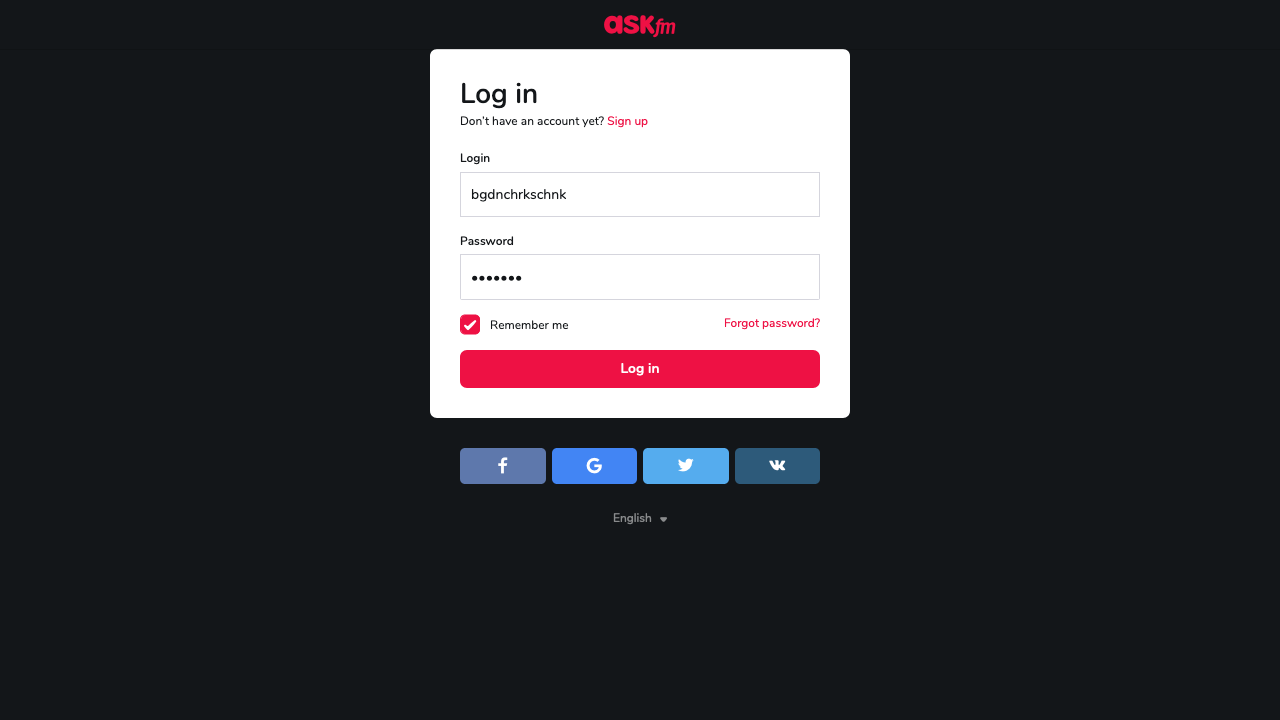
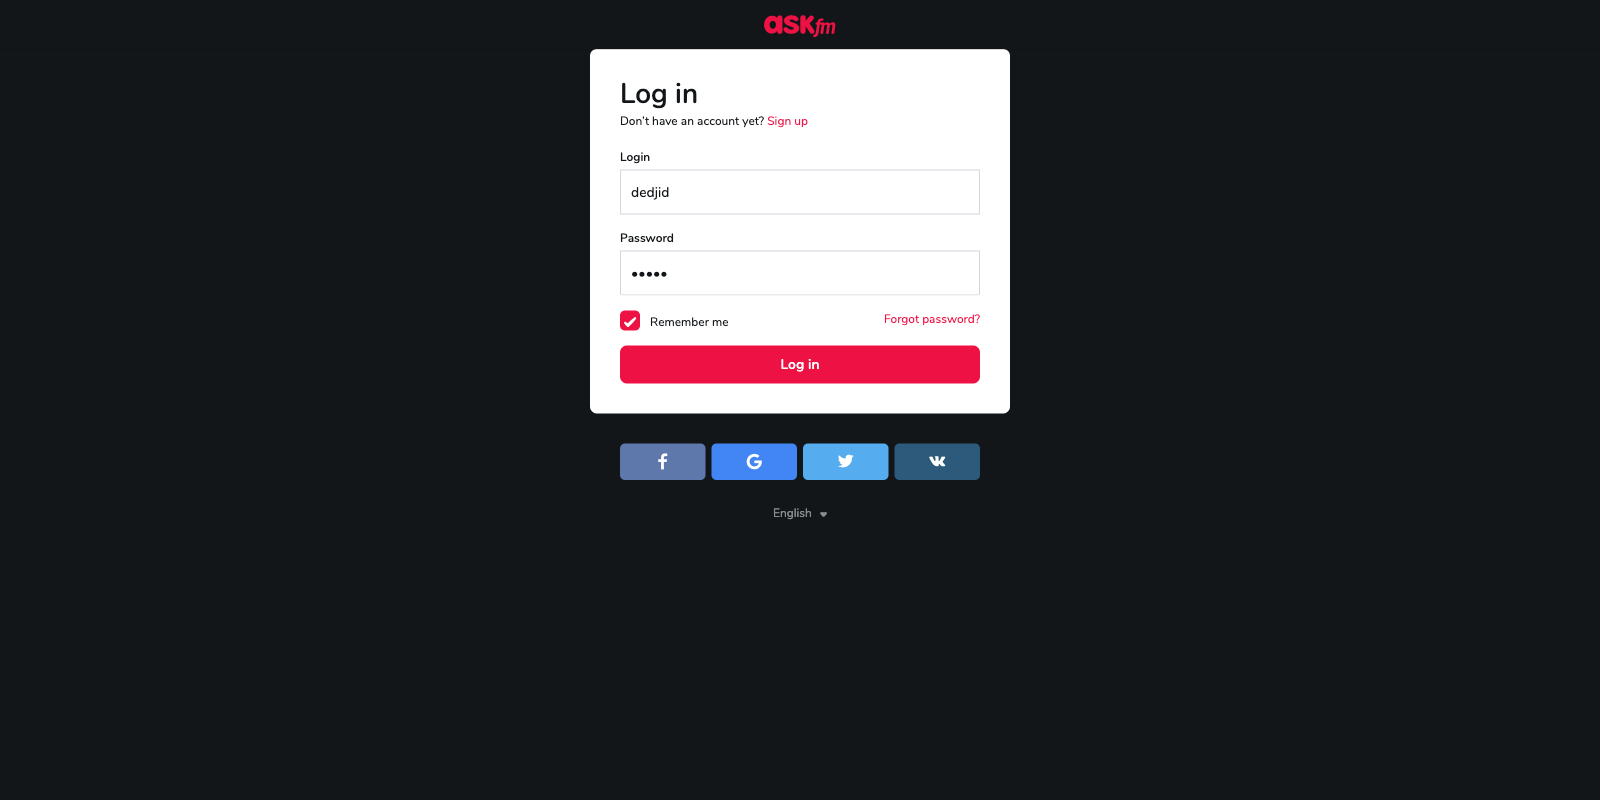
initial commit

Changed region(s): [[0.3125, 0.0, 0.6875, 0.6722], [0.4688, 0.7028, 0.5, 0.7333]]

diff --git a/test/test.py b/test/test.py
@@ -4,11 +4,8 @@ from playwright.sync_api import expect
 import pytest
 
 class Tests:
-    @pytest.mark.this
-    def test_login(self, browser_context):
-        page = browser_context.new_page()
-        # page.set_viewport_size({"width": 2560, "height": 1800})
-        page.goto(url="https://ask.fm/login")
+    # @pytest.mark.this
+    def test_login(self, page):
         assert "https://ask.fm/login" in page.url
         page.locator("#user_name").type("bgdnchrkschnk")
         page.locator("#user_password").type("2445253")
@@ -23,24 +20,15 @@ class Tests:
             assert expect(page.locator(selector="pb-3.p-4")).to_be_visible(), "Ask block is not recognized on page!"
             assert "Стена" in page.title(), f"Page title is wrong - '{page.title()}'"
 
-    @pytest.mark.parametrize("login, pw", [("dimasik", "ehfwhie"), ("alinchik", "5327632")])
-    def test_invalid_login(self, browser_context, login, pw):
-        page = browser_context.new_page()
-        # page.set_viewport_size({"width": 2560, "height": 1800})
-        page.goto(url="https://ask.fm/login")
+    @pytest.mark.parametrize("login, pw", [("dimasik", "ehfwhie"), ("alinchik", "5327632"), pytest.param("dedjid", "cneui", marks=pytest.mark.xfail)])
+    def test_invalid_login(self, page, login, pw):
         assert "https://ask.fm/login" in page.url
         page.locator("#user_name").type(login)
         page.locator("#user_password").type(pw)
         page.screenshot(timeout=1000, path="./screenshots/login.png")
         page.locator("input[type=submit]").click()
-        page.wait_for_timeout(4000)
+        page.wait_for_timeout(5000)
         page.screenshot(path="./screenshots/private_cabinet.png")
         assert page.locator(selector="p.rsp-container"), f"Invalid creds block admonition is not recognized on page!"
-
-    @pytest.mark.test
-    def test_page(self, page):
-        page.locator(selector="textarea.gLFyf").type(delay=0.03, text="iPhone 13 Green")
-        page.keyboard.press(key="Enter")
-        page.wait_for_timeout(3000)
 
 

diff --git a/fixtures/browser.py b/fixtures/browser.py
@@ -1,5 +1,5 @@
 import pytest
-from playwright.sync_api import sync_playwright, Playwright, Page
+# from playwright.sync_api import sync_playwright, Playwright, Page
 
 # FIRST METHOD
 
@@ -12,22 +12,30 @@ from playwright.sync_api import sync_playwright, Playwright, Page
 #     browser.close()
 #     p.stop()
 
-# SECOND METHOD
-@pytest.fixture(scope="session")
-def browser(playwright: Playwright):
-    browser = playwright.firefox.launch(headless=False)
-    yield browser
-    browser.close()
-    playwright.stop()
+# # SECOND METHOD
+# @pytest.fixture(scope="function")
+# def browser(playwright):
+#     browser = playwright.firefox.launch(headless=False)
+#     yield browser
+#     browser.close()
+#     playwright.stop()
+# #
+# @pytest.fixture
+# def page(browser):
+#     context = browser.new_context()
+#     yield context
+#     context.close()
 
-@pytest.fixture
-def browser_context(browser):
+# @pytest.fixture(scope="function")
+# def page(page):
+#     page.goto(url="")
+#     yield page
+
+@pytest.fixture()
+def page(browser):
     context = browser.new_context()
-    yield context
-    context.close()
-
-@pytest.fixture
-def page(page: Page):
-    page.goto(url="https://google.com")
+    page = context.new_page()
+    page.set_viewport_size({"width":1600, "height":800})
+    page.goto(url="https://ask.fm/login")
     yield page
-    page.close()
+    context.close()
